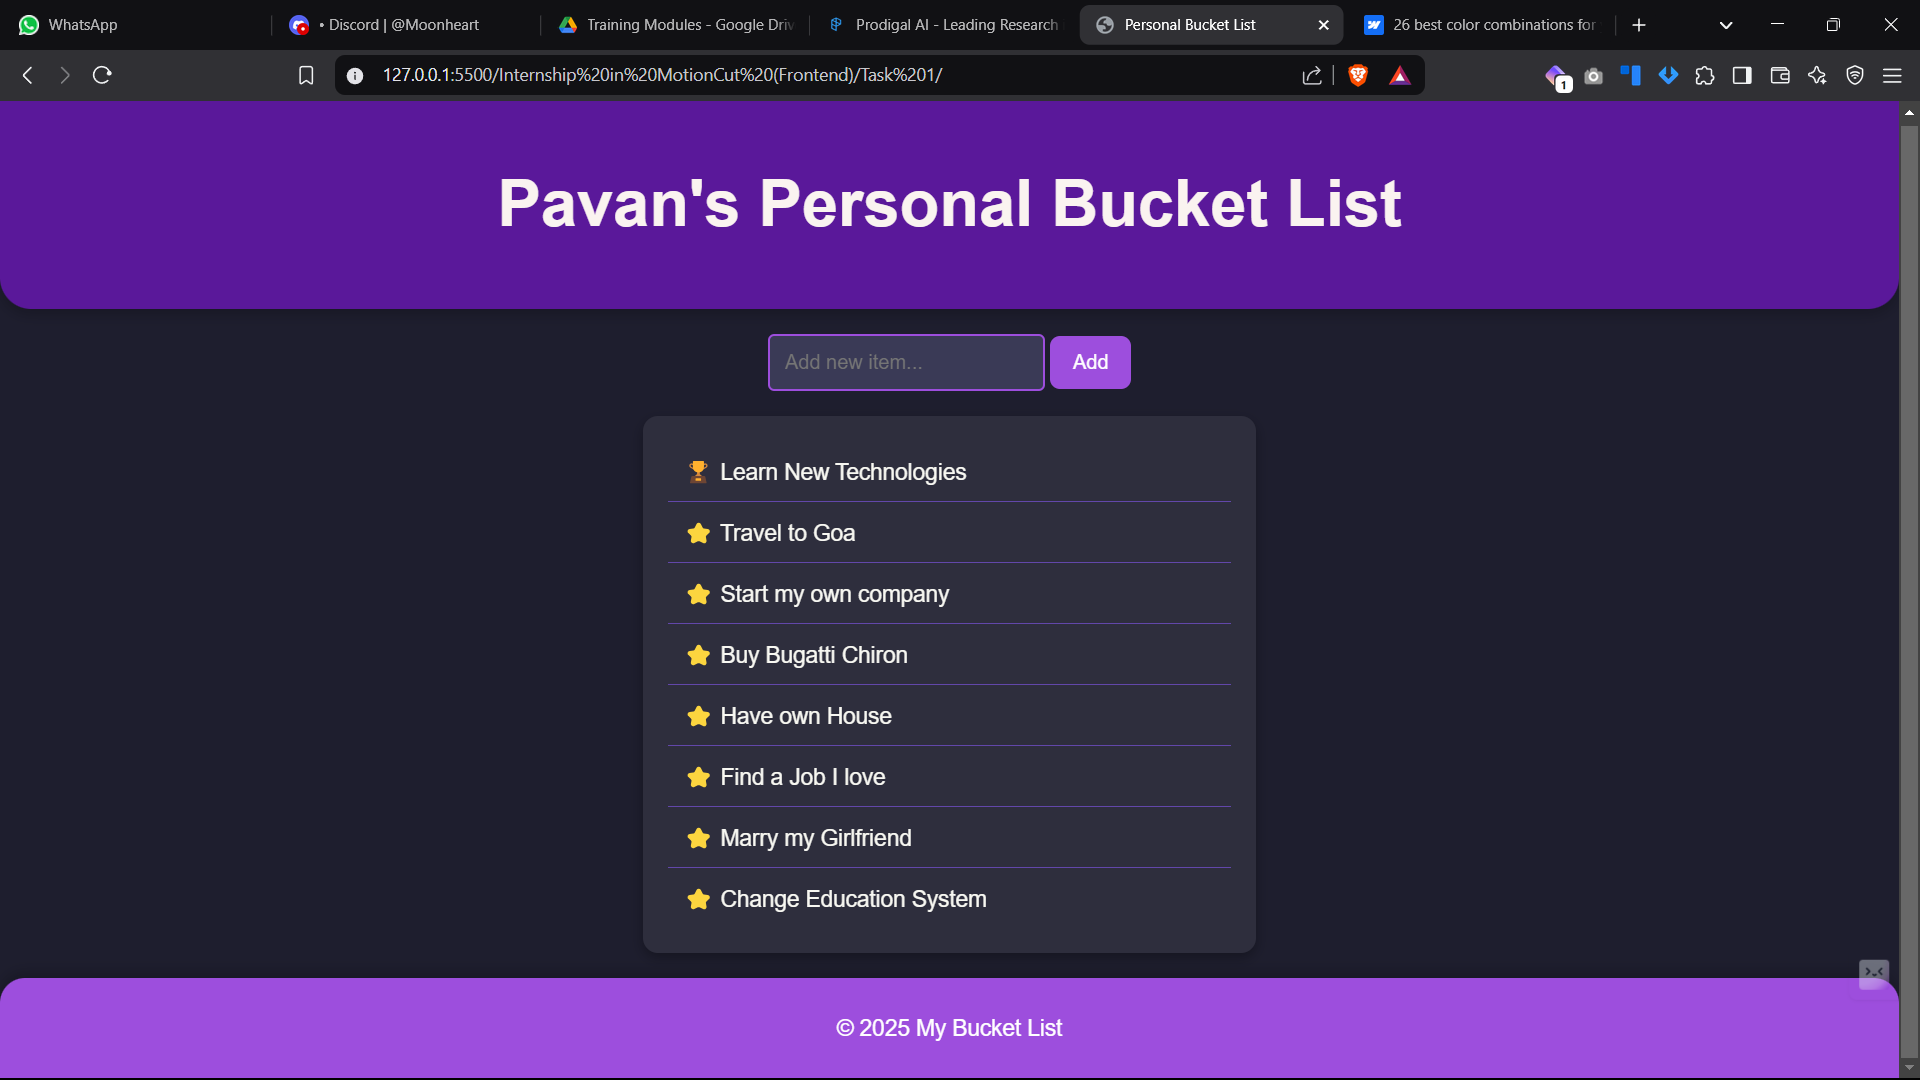
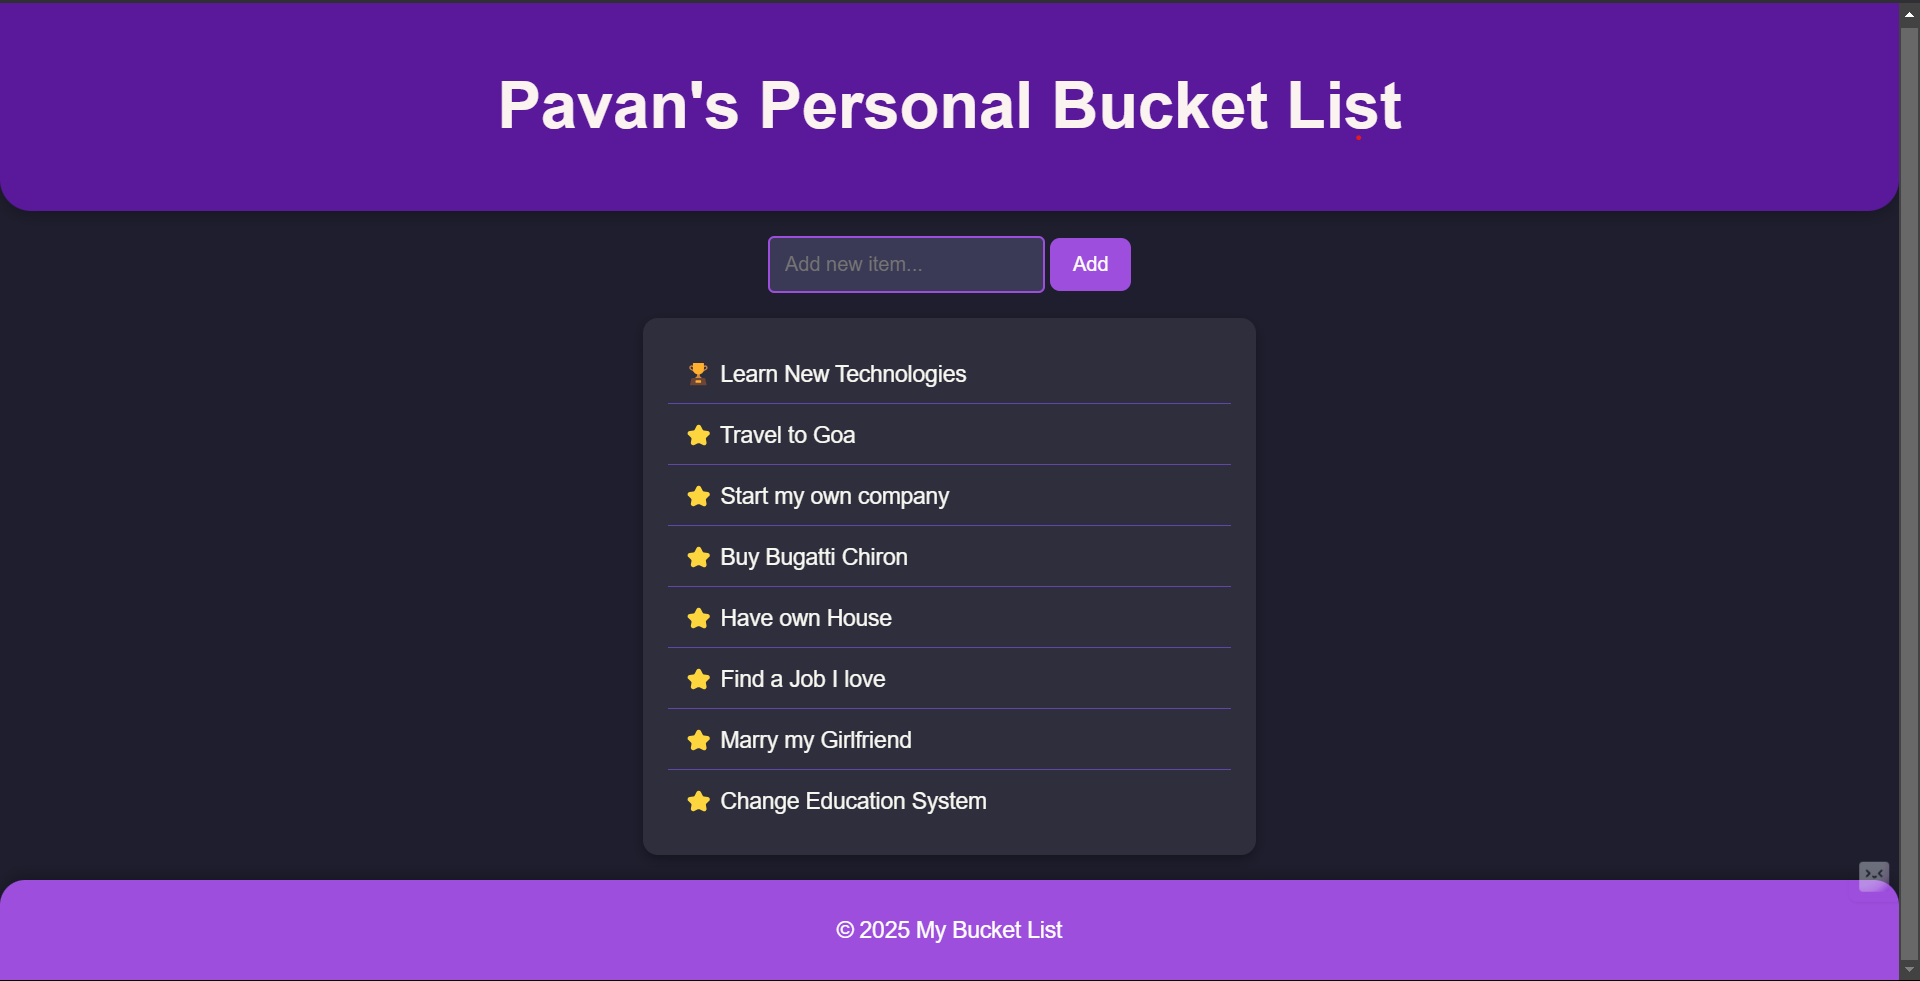
Add mobile_view.jpg

Changed region(s): [[0.0, 0.0, 1.0, 0.3976], [0.3438, 0.4281, 0.5312, 0.8563], [0.0, 0.8563, 1.0, 0.9786]]

diff --git a/README.md b/README.md
@@ -59,7 +59,7 @@ Check out the live version of this project:
 <img src="desktop_view.png" alt="Desktop-view" width="600" height="300">
 
 ### 📱Mobile View
-<img src="mobile_view.jpg" alt="Mobile-view" width="600" height="300">
+<center><img src="mobile_view.jpg" alt="Mobile-view" width="200" height="600"></center>
 
 ## 📝 License
 This project is licensed under the **MIT License**. See the **LICENSE** file for details.
